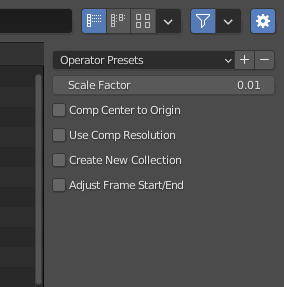
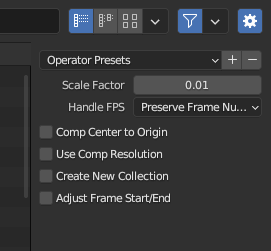
Update the import panel UI + readme

diff --git a/import-comp-to-blender.py b/import-comp-to-blender.py
@@ -12,7 +12,7 @@ bl_info = {
     "name": "Import After Effects Composition",
     "description": "Import layers from an After Effects composition into Blender",
     "author": "adroitwhiz",
-    "version": (0, 3, 5),
+    "version": (0, 3, 6),
     "blender": (2, 91, 0),
     "category": "Import-Export",
     "wiki_url": "https://github.com/adroitwhiz/after-effects-to-blender-export/",
@@ -46,6 +46,33 @@ class ImportAEComp(bpy.types.Operator, ImportHelper):
         default=0.01
     )
 
+    handle_framerate: bpy.props.EnumProperty(
+        items=[
+            (
+                "preserve_frame_numbers",
+                "Preserve Frame Numbers",
+                "Keep the frame numbers the same, without changing the Blender scene's frame rate, if frame rates differ",
+                "",
+                0
+            ), (
+                "set_framerate",
+                "Use Comp Frame Rate",
+                "Set the Blender scene's frame rate to match that of the imported composition",
+                "",
+                1
+            ), (
+                "remap_times",
+                "Remap Frame Times",
+                "If the Blender scene's frame rate differs, preserve the speed of the imported composition by changing frame numbers",
+                "",
+                2
+            ),
+        ],
+        name="Handle FPS",
+        description="How to handle the frame rate of the imported composition differing from the Blender scene's frame rate",
+        default="preserve_frame_numbers"
+    )
+
     comp_center_to_origin: bpy.props.BoolProperty(
         name="Comp Center to Origin",
         description="Translate everything over so that the composition center is at (0, 0, 0) (the origin)",
@@ -68,33 +95,6 @@ class ImportAEComp(bpy.types.Operator, ImportHelper):
         name="Adjust Frame Start/End",
         description="Adjust the Start and End frames of the playback/rendering range to the imported composition's work area.",
         default=False
-    )
-
-    handle_framerate: bpy.props.EnumProperty(
-        items=[
-            (
-                "preserve_frame_numbers",
-                "Preserve Frame Numbers",
-                "Keep the frame numbers the same, without changing the Blender scene's framerate, if framerates differ",
-                "",
-                0
-            ), (
-                "set_framerate",
-                "Set Scene Framerate to Comp Framerate",
-                "Set the Blender scene's framerate to match that of the imported composition",
-                "",
-                1
-            ), (
-                "remap_times",
-                "Remap Frame Times",
-                "If the Blender scene's framerate differs, preserve the speed of the imported composition by changing frame numbers",
-                "",
-                2
-            ),
-        ],
-        name="Handle Framerate",
-        description="How to handle the framerate of the imported composition differing from the Blender scene's framerate",
-        default="preserve_frame_numbers"
     )
 
     def make_or_get_fcurve(self, action: 'bpy.types.Action', data_path: str, index=-1) -> 'FCurve':
@@ -645,18 +645,21 @@ class ImportAEComp(bpy.types.Operator, ImportHelper):
 
     def draw(self, context: 'bpy.types.Context'):
         layout = self.layout
-        # Give the checkboxes room to breathe
-        layout.use_property_split = False
+        layout.use_property_split = True
+        layout.use_property_decorate = False
 
-        sfile = context.space_data
-        operator = sfile.active_operator
+        col = layout.column()
+        col.prop(self, 'scale_factor')
+        col.prop(self, 'handle_framerate')
 
-        layout.prop(operator, 'scale_factor')
-        layout.prop(operator, 'comp_center_to_origin')
-        layout.prop(operator, 'use_comp_resolution')
-        layout.prop(operator, 'create_new_collection')
-        layout.prop(operator, 'handle_framerate')
-        layout.prop(operator, 'adjust_frame_start_end')
+        col = layout.column()
+        # Give the checkboxes room to breathe. Ideally, this wouldn't be necessary, but the default width is just a few
+        # pixels too small and truncates the labels.
+        col.use_property_split = False
+        col.prop(self, 'comp_center_to_origin')
+        col.prop(self, 'use_comp_resolution')
+        col.prop(self, 'create_new_collection')
+        col.prop(self, 'adjust_frame_start_end')
 
 def menu_func_import(self, context):
     self.layout.operator(ImportAEComp.bl_idname, text="After Effects composition data, converted (.json)")

diff --git a/README.md b/README.md
@@ -61,6 +61,12 @@ There are several import options on the righthand pane of the file dialog:
 #### Scale Factor
 This is the factor by which all units in the imported composition will be scaled. The default value, 0.01, maps one pixel to one centimeter, which matches Cinema 4D.
 
+#### Handle FPS
+This determines how a composition with a different frame rate from the Blender scene's frame rate will be handled. The options are:
+- Preserve Frame Numbers: Keep the frame numbers the same, without changing the Blender scene's frame rate, if frame rates differ
+- Use Comp Frame Rate: Set the Blender scene's frame rate to match that of the imported composition
+- Remap Frame Times: If the Blender scene's frame rate differs, preserve the speed of the imported composition by changing frame numbers
+
 #### Comp Center to Origin
 If checked, this will position objects relative to Blender's origin rather than the composition center (which is down and to the right of Blender's origin).
 
@@ -73,9 +79,6 @@ If checked, this will set the scene's render resolution to the resolution of the
 
 #### Create New Collection
 If checked, this will place all imported objects into a new collection.
-
-#### Adjust Frame Start/End
-If checked, this will adjust the "Start"/"End" frame range in the timeline to the imported composition's work area.
 
 Once the desired options have been set, navigate to the .json file exported via the After Effects script, and click Import AE Comp:
 
